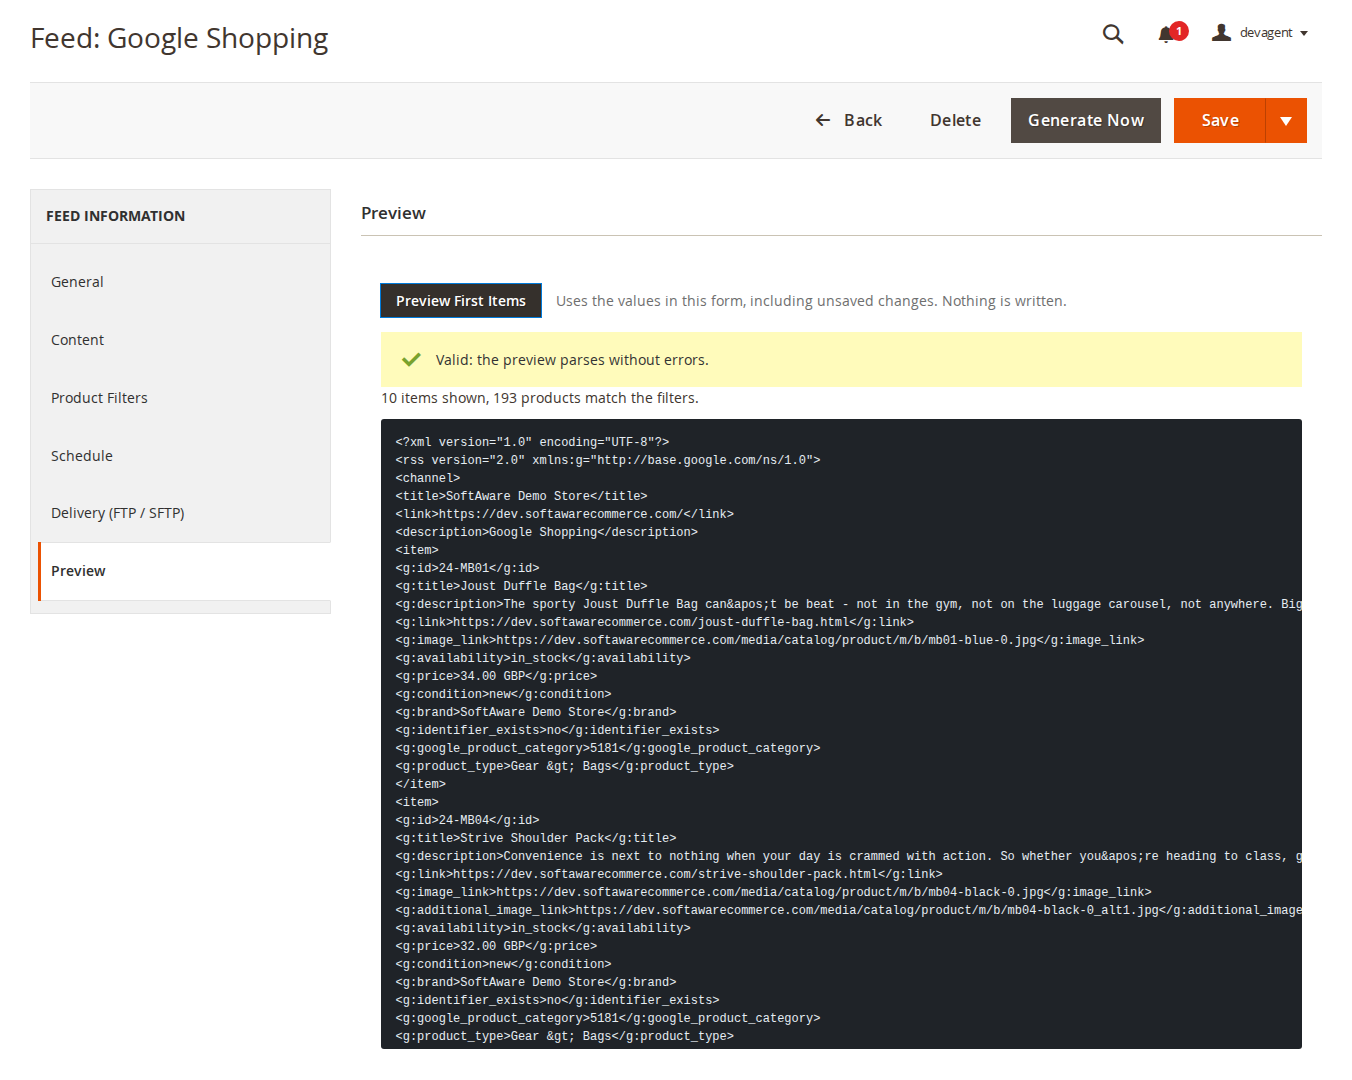
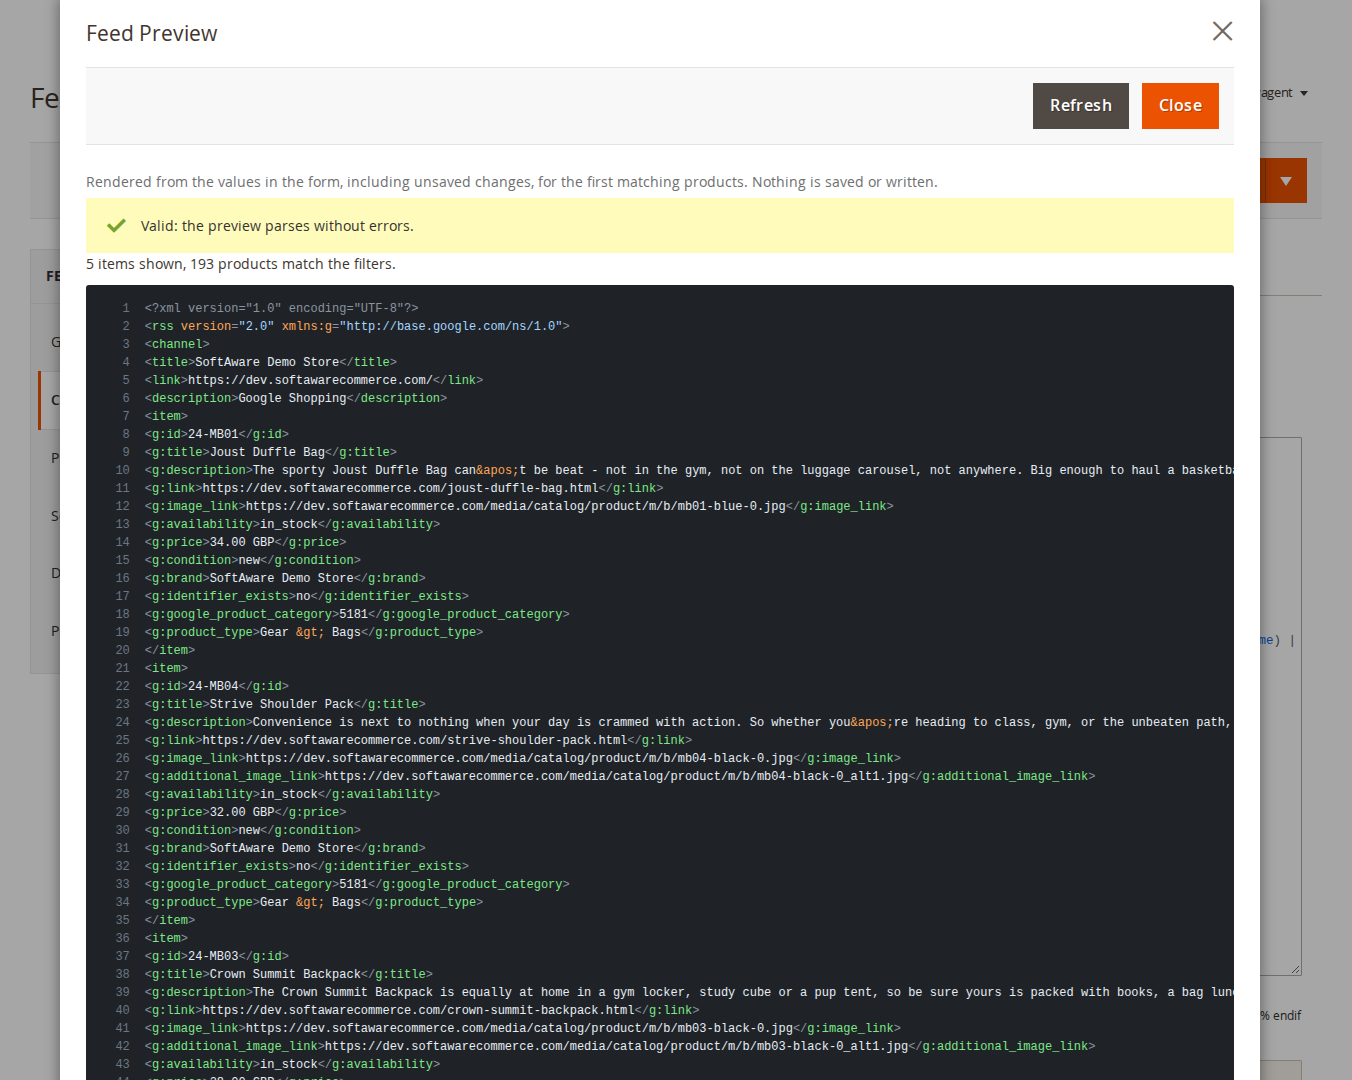
Docs for the template editor and preview (1.5.0)

diff --git a/README.md b/README.md
@@ -15,7 +15,10 @@ Documentation: [User guide](docs/user-guide.md) · [FAQ](docs/faq.md)
   mass enable, disable and delete; duplicate.
 - **Ready templates** ("Add Feed" split button): Google Shopping (RSS 2.0 XML with the `g:` namespace),
   Meta catalogue (CSV), Pinterest catalogue (CSV), Microsoft/Bing Shopping (tab-delimited TXT), generic JSON.
-- **Template editor** for XML/JSON: a small, sandboxed template language (no PHP):
+- **Template editor** for XML/JSON with syntax highlighting (template tags, filters, strings, comments, XML tags and
+  attributes, JSON keys), line numbers and the cursor position; Tab indents, Shift+Tab outdents, Esc then Tab leaves
+  the field. Self-contained (no external libraries or CDN); the field is still a plain textarea, so saving is
+  unchanged. The template uses a small, sandboxed template language (no PHP):
   - `{{ product.name | strip_tags | truncate(150) }}` prints a value, escaped for XML or JSON automatically
   - `{% for product in products %} … {% endfor %}` marks the repeated item (exactly one, at top level)
   - `{% if … %} {% elseif … %} {% else %} {% endif %}`, `{% for image in product.images %}`, `{% set x = … %}`,
@@ -51,7 +54,11 @@ Documentation: [User guide](docs/user-guide.md) · [FAQ](docs/faq.md)
   - cron: per feed daily times or a cron expression (store view timezone), own cron group `softaware_datafeed`
   - admin: "Generate Now" runs batch by batch in the browser with a progress bar
   - CLI: see below
-  - **preview** (Preview tab of the feed form) renders the first items of the unsaved form values and validates them
+  - **preview**: the **Preview** button (page header), **Preview Output** (Content tab) and the Preview tab render
+    the feed for the first matching products (store view, product filters and conditions applied) from the unsaved
+    form values, highlighted with line numbers, and validate it. Nothing is saved or written. Template errors name
+    the line, with a button that puts the cursor on it; output errors mark the line in the output. The work is
+    bounded: at most 20 items, 500 products read and about 10 seconds
   - **generation log** (Softaware > Data Feed Manager > Generation Log): start time, trigger, status, duration, items,
     errors with messages, file size
 - **Delivery**: local file (public URL when below `pub/`), optional upload by SFTP, FTP or FTPS (password stored
@@ -73,7 +80,7 @@ Stores > Configuration > Softaware > Data Feed Manager (groups General, Generati
 |---|---|---|
 | Enabled | `softaware_datafeed/general/enabled` | Yes |
 | Batch Size | `softaware_datafeed/general/batch_size` | 250 |
-| Preview Items | `softaware_datafeed/general/preview_limit` | 10 |
+| Preview Items | `softaware_datafeed/general/preview_limit` | 5 (1 to 20) |
 | Keep Generation Log For (Days) | `softaware_datafeed/general/log_retention_days` | 30 |
 | Brand Attribute | `softaware_datafeed/product_data/brand_attribute` | Automatic: `brand` if the store has it, otherwise `manufacturer` |
 
@@ -131,6 +138,10 @@ the format. Partial files and job state are kept in `var/softaware_datafeed/` wh
 - The Google category mapping is global (not per store view or feed).
 - The template language is deliberately small; there are no custom PHP functions in templates.
 - `{{`, `{%` and `}}` cannot appear inside string literals of a template expression.
+- Limits per template value and item, so a template cannot exhaust the server's memory: a value (for example built
+  with `~`, `replace` or `join`) may be up to 1 MB, one item, header or footer up to 8 MB, and loops may run up to
+  1,000,000 steps per item. An item over a limit is skipped and logged like any other broken item.
+- Templates larger than 2 MB are edited without highlighting.
 - CSV values are written as they are (no protection against spreadsheet formulas such as `=…`), because channels
   read the file, not a spreadsheet program. Do not open feeds built from untrusted text in a spreadsheet.
 - FTPS uses PHP's FTP extension, which does not verify the server's TLS certificate. Prefer SFTP.

diff --git a/docs/user-guide.md b/docs/user-guide.md
@@ -50,7 +50,7 @@ Store view, currency and schedule are set per feed; these settings apply to all 
 | --- | --- |
 | General > Enabled | When set to No, no feeds are generated (cron, admin or command line). Existing feed files stay in place. Default: Yes. |
 | Generation > Batch Size | Products loaded at a time, 10 to 5000. Default: 250. Lower it if generation runs out of memory. |
-| Generation > Preview Items | Items shown on the feed's Preview tab, 1 to 100. Default: 10. |
+| Generation > Preview Items | Items rendered by the feed preview, 1 to 20. Default: 5. |
 | Generation > Keep Generation Log For (Days) | Older log entries are deleted daily. Default: 30; 0 keeps the log for ever. |
 | Product Data > Brand Attribute | The product attribute read by `{{ product.brand }}`, which the Google Shopping (g:brand), Meta, Pinterest and Microsoft templates send as the brand. A variant without a value uses its parent's; the store name is used only when there is no brand at all. Default: Automatic (the attribute `brand` if your store has one, otherwise `manufacturer`). |
 
@@ -75,6 +75,12 @@ The feed form has tabs on the left.
 ### Content: template (XML and JSON)
 
 ![Template editor](images/template-editor.png)
+
+The editor highlights the template so the parts are easy to tell apart: template tags and keywords, variables,
+filters, strings and comments, and the XML (or JSON) around them. Line numbers are on the left and the cursor's line
+and column below the field. An unclosed `{{`, `{%` or `{#` is marked in red. **Tab** indents (several selected lines
+at once), **Shift+Tab** outdents; to leave the field with the keyboard press **Esc**, then **Tab**. Undo (Ctrl+Z)
+works as usual, and the template is saved exactly as typed.
 
 ```
 {% for product in products %}
@@ -154,8 +160,19 @@ Mode (FTP)**. **Test Connection** checks the settings in the form.
 
 ![Preview of the first items](images/preview.png)
 
-**Preview First Items** renders the first items (Preview Items setting) from the values in the form, including
-unsaved changes, and validates them. Nothing is written. It also shows how many products match the filters.
+Click **Preview** in the page header (or **Preview Output** above the template or columns) at any time: a panel
+shows the feed for the first matching products, rendered from the values in the form, including unsaved changes,
+and validates it. The store view, product filters and attribute conditions of the feed apply. The output is
+highlighted (XML, JSON, or CSV/TXT with the delimiters marked) and has line numbers. Nothing is saved or written.
+The **Preview** tab of the form shows the same with **Preview First Items**.
+
+- How many items: the Preview Items setting (default 5, at most 20). The summary also says how many products match
+  the filters.
+- A template error names its line; **Show line N in the template** opens the Content tab with the cursor on it.
+- Items that fail (for example invalid XML) are listed with the SKU and the line of the item's output; a
+  validation error of the whole output marks that line in the output.
+- When the template prints nothing for most products, the preview stops after reading 500 products (or about
+  10 seconds) and says so.
 
 ### Saving
 

diff --git a/CHANGELOG.md b/CHANGELOG.md
@@ -1,5 +1,35 @@
 # Changelog
 
+## 1.5.0 (2026-10-10)
+
+### Added
+
+- Template editor: syntax highlighting for template tags, expressions, filters, strings and comments, XML tags,
+  attributes and comments, and JSON keys and values; line numbers; cursor line and column. Tab indents and Shift+Tab
+  outdents (also for several selected lines); Esc then Tab moves to the next field. Unclosed `{{`, `{%` or `{#` are
+  marked. The textarea stays the form field (undo, selection and saving unchanged). No external libraries.
+- Preview from the page header (**Preview**) and the Content tab (**Preview Output**): renders the feed for the first
+  matching products from the unsaved form values in a panel, highlighted with line numbers. A template error names
+  its line and has a **Show line N in the template** button; an output validation error marks the line in the output.
+  The Preview tab shows the same highlighted output.
+
+### Changed
+
+- Preview Items (`softaware_datafeed/general/preview_limit`): default 5 (was 10), at most 20 (was 100). Higher saved
+  values are treated as 20.
+- The preview stops after reading 500 products or after about 10 seconds when the template prints nothing for most
+  products, and says so, instead of reading the whole catalogue.
+- Runtime errors in a template (for example an invalid `regex_replace` pattern) and invalid item XML name the line
+  (template line, or line of the item's output).
+
+### Security
+
+- A template could exhaust the server's memory or CPU (for example `{% set s = s ~ s %}` in a loop, `replace`,
+  `join` or `regex_replace` building huge values, or deeply nested loops), crashing the PHP worker or the cron run
+  and putting other sites on the server at risk. Template values are now limited to 1 MB, the output of one item,
+  header or footer to 8 MB and loops to 1,000,000 steps per item; the limit is checked before a large value is
+  built. Normal feeds are far below these limits.
+
 ## 1.4.0 (2026-10-09)
 
 ### Added
